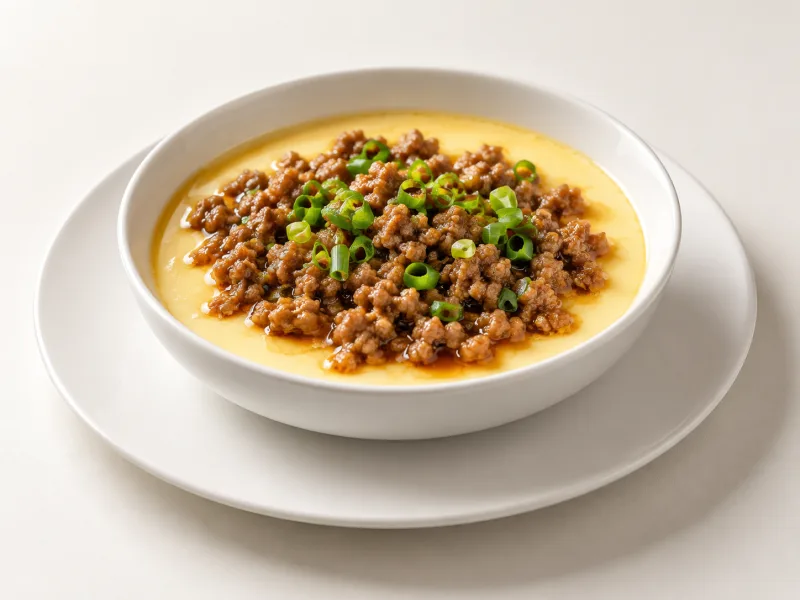
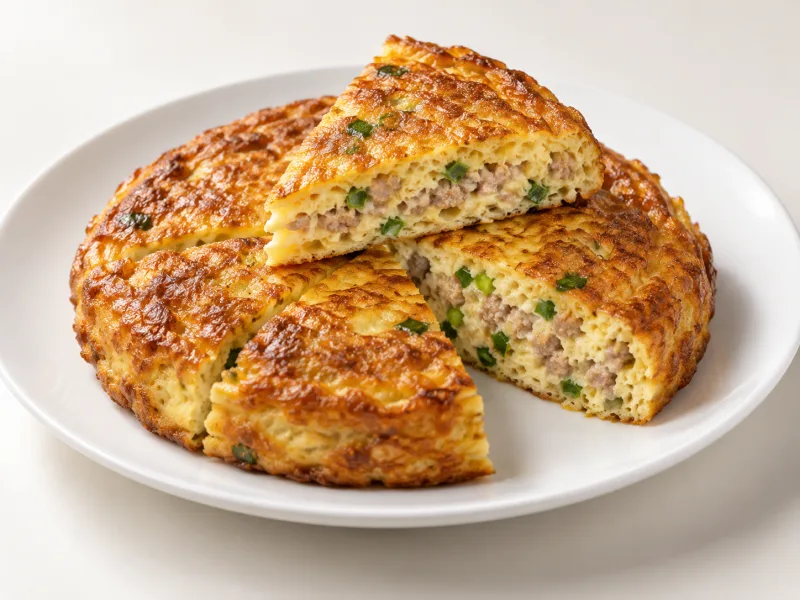
fix: 肉末蒸蛋改为肉末涨蛋，做法由蒸改为煎，重新生成配图

diff --git a/src/data/raw.ts b/src/data/raw.ts
@@ -252,9 +252,9 @@ export const RAW: Raw[] = [
   [90, "水蒸蛋", "嫩滑像布丁，淋点生抽香油就好吃", "egg", 0, ["清淡", "老少皆宜"],
     "主|鸡蛋 3个@辅|葱花 少许@调|温水 240ml;盐 半小勺;生抽 1勺;香油 几滴",
     "鸡蛋打入碗中，用筷子顺一个方向打散，不要打出泡沫@加盐，分次倒入约 40℃ 的温水（蛋液的 1.5 倍），边倒边搅匀@蛋液过筛一次，撇去表面浮沫，蒸出来才平滑@碗口盖盘子或耐热保鲜膜（扎几个小孔），防止水滴进去@水开后放入蒸锅，中小火蒸 10 分钟，关火再焖 2 分钟@淋生抽和香油，撒葱花"],
-  [91, "肉末蒸蛋", "嫩蛋托着咸香肉末，拌饭很合适", "egg", 0, ["下饭", "老少皆宜"],
-    "主|鸡蛋 3个;猪肉末 100g@辅|葱花 少许;姜末 少许@调|温水 240ml;生抽 1勺;料酒 半勺;盐 半小勺;白胡椒 少许;香油 几滴",
-    "肉末加料酒、半勺生抽、姜末、白胡椒抓匀，腌 10 分钟@热锅少油，下肉末炒散至变色，盛出备用@鸡蛋顺一个方向打散，加盐，倒入约 40℃ 的温水（蛋液的 1.5 倍）搅匀，过筛撇去浮沫@蛋液倒入深盘，盖保鲜膜扎几个小孔，水开后中小火蒸 8 分钟至表面刚凝固@揭膜铺上炒好的肉末，再蒸 3 分钟@淋剩下的生抽和香油，撒葱花"],
+  [91, "肉末涨蛋", "蛋饼蓬松鼓起，肉末咸香，边缘微焦", "egg", 0, ["下饭", "家常"],
+    "主|鸡蛋 3个;猪肉末 120g@辅|葱花 2根;姜末 少许@调|料酒 半勺;生抽 1勺;盐 半小勺;白胡椒 少许;水淀粉 1勺;食用油 3勺",
+    "肉末加料酒、半勺生抽、姜末、白胡椒抓匀，腌 10 分钟@鸡蛋打散，加盐和水淀粉搅匀，再倒入腌好的肉末和葱花拌匀@平底锅烧热，倒入 3 勺油，油面微微冒烟时倒入蛋液@蛋液马上鼓起，边缘凝固后转最小火，煎 2 分钟至底部金黄定型@用锅铲或盘子辅助翻面，再煎 1 分钟至两面金黄、中间熟透@沿锅边淋剩下的半勺生抽提香，切块装盘"],
 
   // ───────── 豆制品 / 菌菇 ─────────
   [47, "香干炒毛豆", "香干咸香，毛豆爽口，下酒下饭", "tofu", 1, ["下酒", "家常"],
